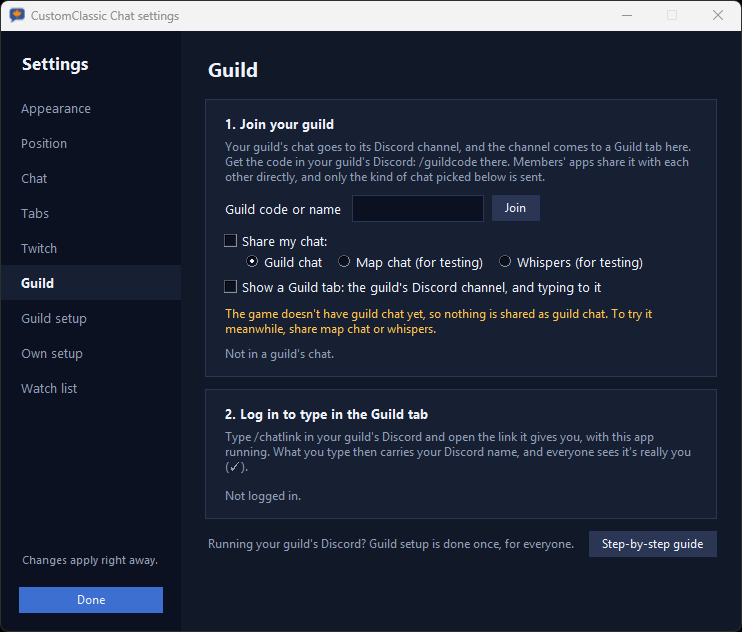
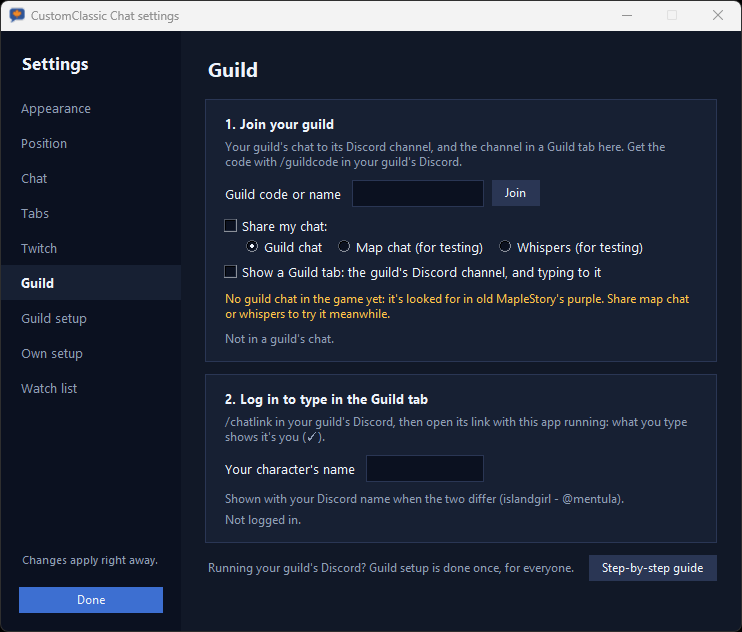
Typed guild messages show the character's name, and the Discord name when it differs
"islandgirl - @mentula", or just "mentula" when one name is part of the other. The character's
name is set in Settings → Guild (first of your character names by default). Webhook names get
look-alikes for the characters Discord refuses. The bot logs why it skips a channel message.

Changed region(s): [[0.279, 0.2104, 0.9609, 0.7516], [0.279, 0.7816, 0.9919, 0.932]]

diff --git a/settings_ui.py b/settings_ui.py
@@ -416,10 +416,8 @@ class SettingsWindow:
         tab = tk.BooleanVar(value=opts["relay_tab"])
         source = tk.StringVar(value=opts["relay_source"] if opts["relay_source"] in dict(guild_relay.SOURCES)
                               else "guild")
-        c = card(page, "1. Join your guild", "Your guild's chat goes to its Discord channel, and the channel "
-                                             "comes to a Guild tab here. Get the code in your guild's Discord: "
-                                             "/guildcode there. Members' apps share it with each other directly, "
-                                             "and only the kind of chat picked below is sent.")
+        c = card(page, "1. Join your guild", "Your guild's chat to its Discord channel, and the channel in a Guild "
+                                             "tab here. Get the code with /guildcode in your guild's Discord.")
         row = tk.Frame(c, bg=CARD)
         row.pack(fill="x")
         label(row, "Guild code or name").pack(side="left")
@@ -431,9 +429,8 @@ class SettingsWindow:
 
         def show_waiting():
             if source.get() == "guild" and not app.guild_colour_known():
-                waiting.configure(text="The game doesn't have guild chat yet. This app already looks for it in "
-                                       "old MapleStory's guild purple, and shares it once it shows up. To try it "
-                                       "meanwhile, share map chat or whispers.")
+                waiting.configure(text="No guild chat in the game yet: it's looked for in old MapleStory's purple. "
+                                       "Share map chat or whispers to try it meanwhile.")
             elif source.get() != "guild":
                 kind = dict(guild_relay.SOURCES)[source.get()].split(" (")[0].lower()
                 waiting.configure(text=f"Testing: your {kind} goes to the guild's Discord, labelled as such. "
@@ -492,12 +489,27 @@ class SettingsWindow:
                 top.after(3000, tick)
         tick()
 
-        c = card(page, "2. Log in to type in the Guild tab", "Type /chatlink in your guild's Discord and open the "
-                                                             "link it gives you, with this app running. What you "
-                                                             "type then carries your Discord name, and everyone "
-                                                             "sees it's really you (✓).")
+        c = card(page, "2. Log in to type in the Guild tab", "/chatlink in your guild's Discord, then open its link "
+                                                             "with this app running: what you type shows it's you (✓).")
+        row = tk.Frame(c, bg=CARD)
+        row.pack(fill="x", pady=(0, 6))
+        label(row, "Your character's name").pack(side="left")
+        game = tk.StringVar(value=opts["game_name"] or next(iter(opts["ignore_names"]), ""))
+        entry(row, game, 16).pack(side="left", padx=8, ipady=2)
+        shown = label(c, "", soft=True, size=9, wrap=470)
+        shown.pack(fill="x")
         who = label(c, "", size=9)
         who.pack(fill="x")
+
+        def show_name(*_):
+            claims = guild_relay.check_login(opts["guild_login"]) if opts["guild_login"] else None
+            if game.get().strip() != opts["game_name"]:
+                app.set_opt("game_name", game.get().strip())
+                if app.relay:
+                    app.relay.game_name = app.game_name()
+            shown.configure(text=f"Your messages show as: {guild_relay.who(app.game_name(), claims['name'])}" if claims
+                            else "Shown with your Discord name when the two differ (islandgirl - @mentula).")
+        game.trace_add("write", show_name)
 
         def show_login():
             claims = guild_relay.check_login(opts["guild_login"]) if opts["guild_login"] else None
@@ -515,6 +527,7 @@ class SettingsWindow:
             show_login()
         out = button(c, "Log out", log_out)
         show_login()
+        show_name()
         if opts["guild_login"]:  # nothing to log out of otherwise
             out.pack(anchor="w", pady=(6, 0))
         row = tk.Frame(page, bg=BG)

diff --git a/guild_relay.py b/guild_relay.py
@@ -256,6 +256,24 @@ def check_webhook(url: str) -> dict:
     return {"webhook_id": m.group(1), "channel_id": str(r.json().get("channel_id") or "")}
 
 
+def who(game: str, discord: str) -> str:
+    """The name a typed message goes under: the character's, with the Discord name after it when
+    the two don't look like the same person ("islandgirl - @mentula"); one name when one is part of
+    the other ("mentula" and "mentulatv": mentula), or when there's no character name."""
+    game, discord = clean(game).strip()[:20], clean(discord).strip()[:32]
+    if not game or not discord:
+        return game or discord or "?"
+    if game.casefold() in discord.casefold() or discord.casefold() in game.casefold():
+        return game
+    return f"{game} - @{discord}"
+
+
+def webhook_name(name: str) -> str:
+    """Discord turns down webhook names with @, # or "discord" in them: look-alikes instead."""
+    name = name.replace("@", "＠").replace("#", "＃")
+    return re.sub(r"(?i)discord", lambda m: m.group(0).replace("o", "ο").replace("O", "Ο"), name)[:80]
+
+
 def post_webhook(url: str, username: str, content: str) -> None:
     import httpx
     payload = {"username": username[:80], "content": content, "allowed_mentions": {"parse": []}}
@@ -296,6 +314,7 @@ class GuildPeer:
             self.cfg = {k: admin[k] for k in ("name", "webhook", "webhook_id", "channel_id") if k in admin}
             self.cfg["has_bot"] = bool(admin.get("bot"))
         self.login = login  # this app's signed login (from the magic link), for typing in the Guild tab
+        self.game_name = ""  # this player's character name, shown with the Discord name when they differ
         self.bot_key = bot_key  # the bot's public key (tests give their own)
         self.post = post or post_webhook
         self.read = read or read_channel
@@ -367,7 +386,7 @@ class GuildPeer:
             claims = check_login(str(msg.get("login", "")), self.bot_key, now)
             server = self.cfg.get("server_id")
             ok = bool(claims) and (not server or str(claims.get("server")) == server)
-            name = str(claims["name"] if ok else msg.get("name", "?"))[:32]
+            name = who(str(msg.get("game", "")), str(claims["name"] if ok else msg.get("name", "?")))
             self.put(("msg", {"kind": "guildsay", "name": name + (" ✓" if ok else " (unverified)"),
                               "body": clean(str(msg.get("text", ""))), "at": now, "time": time.strftime("%H:%M"),
                               "to": None, "fg": None, "bg": None}))
@@ -393,16 +412,17 @@ class GuildPeer:
         text = clean(text)[:400]
         if not text:
             return ""
-        self.say({"t": "say", "text": text, "login": self.login, "name": claims["name"]})
-        self.put(("msg", {"kind": "guildsay", "name": claims["name"] + " ✓", "body": text, "at": time.time(),
+        self.say({"t": "say", "text": text, "login": self.login, "name": claims["name"], "game": self.game_name})
+        name = who(self.game_name, claims["name"])
+        self.put(("msg", {"kind": "guildsay", "name": name + " ✓", "body": text, "at": time.time(),
                           "time": time.strftime("%H:%M"), "to": None, "fg": None, "bg": None}))
         if self.cfg.get("webhook"):
-            threading.Thread(target=self._post_said, args=(claims["name"], text), daemon=True).start()
+            threading.Thread(target=self._post_said, args=(name, text), daemon=True).start()
         return ""
 
     def _post_said(self, name: str, text: str) -> None:
         try:
-            self.post(self.cfg["webhook"], f"{name} · app", text)
+            self.post(self.cfg["webhook"], webhook_name(name), text)
         except Exception as e:
             self.error = f"Discord refused a post ({e.__class__.__name__})"
 

diff --git a/customclassic_chat.py b/customclassic_chat.py
@@ -79,6 +79,7 @@ DEFAULTS = {
     "relay_cfg": {},          # guild code -> the guild's details as last heard (its name and Discord webhook)
     "relay_admin": {},        # guild code -> guilds set up from here: name, webhook, and the Discord bot token if any
     "guild_login": "",        # this app's login from the bot's magic link (/chatlink): to type in the Guild tab
+    "game_name": "",          # your character's name, shown with your Discord name on what you type (if they differ)
     "tab": "All",
     "settings_page": "Appearance",  # the settings section open last
     "menu_close_s": 10,       # the right-click menu closes after this many seconds (0: stays until clicked away)
@@ -2153,6 +2154,11 @@ class ChatPanel(ChatView):
         self.render()
         save_settings(self.opts)
 
+    def game_name(self) -> str:
+        """Your character's name for what you type in the Guild tab: as set, or your first
+        character name from the Chat page."""
+        return self.opts["game_name"].strip() or next(iter(self.opts["ignore_names"]), "")
+
     def set_opt(self, key: str, value) -> None:
         self.opts[key] = value
         save_settings(self.opts)
@@ -2240,6 +2246,7 @@ class ChatPanel(ChatView):
             self.relay = guild_relay.GuildPeer(code, o["relay_reader"], self.events.put, o["relay_share"],
                                                o["relay_tab"], o["relay_source"], cfg=o["relay_cfg"].get(code),
                                                admin=admin, login=o["guild_login"])
+            self.relay.game_name = self.game_name()
 
     def set_relay(self, code: str, share: bool, tab: bool, source: str | None = None) -> None:
         self.opts["relay_code"] = guild_relay.guild_key(code)

diff --git a/tests/test_login.py b/tests/test_login.py
@@ -54,7 +54,7 @@ def test_typing_reaches_the_guild_signed():
     time.sleep(0.3)  # the post to Discord goes on its own thread
     [(kind, msg)] = heard
     assert (msg["kind"], msg["name"], msg["body"]) == ("guildsay", "Rowan ✓", "hi all @everyone")
-    assert said == [("Rowan · app", "hi all @everyone")]
+    assert said == [("Rowan", "hi all @everyone")]
 
 
 def test_what_you_type_shows_once_for_you():
@@ -94,3 +94,16 @@ def test_the_magic_link_reaches_the_app(monkeypatch):
     except urllib.error.HTTPError as e:
         assert e.code == 400
     assert events.empty()
+
+
+def test_character_and_discord_name_both_show_when_they_differ():
+    assert g.who("islandgirl", "mentula") == "islandgirl - @mentula"
+    assert g.who("mentula", "Mentula") == "mentula"  # the same person by name: once
+    assert g.who("mentula", "mentulatv") == "mentula" and g.who("", "mentula") == "mentula"
+    assert g.webhook_name("islandgirl - @mentula") == "islandgirl - ＠mentula"  # Discord turns down a plain @
+    assert "discord" not in g.webhook_name("discordfan - @x").lower()
+    a, b, heard, said = peers()
+    a.login, a.game_name = login(), "islandgirl"
+    assert a.say_chat("hi") == ""
+    time.sleep(0.3)
+    assert heard[0][1]["name"] == "islandgirl - @Rowan ✓" and said == [("islandgirl - ＠Rowan", "hi")]

diff --git a/bot/ccchat_bot.py b/bot/ccchat_bot.py
@@ -301,6 +301,9 @@ def make_bot(store: Store, channels: Channels, key=None):
             return
         if should_pass_on(message, row):
             channels.discord_message(row["key"], message.author.display_name, message.content)
+        else:  # why a message in a set-up channel didn't go to the Guild tabs (never what it says)
+            log.info("not passed on in %s: words=%s bot=%s webhook=%s", row["name"], bool(message.content),
+                     message.author.bot, message.webhook_id)
 
     async def republish():
         while True:

diff --git a/docs/guild-setup.md b/docs/guild-setup.md
@@ -73,8 +73,10 @@ share. More members sharing just means fewer gaps.
    *CustomClassic Chat is logged in as …*. You can close that tab.
 3. Open the **Guild** tab, click the line at the bottom, type, and press **Enter**.
 
-Your message goes to the Discord channel and to every member's Guild tab under your Discord name
-with a ✓. The ✓ means the bot vouched for that name. A login lasts 90 days; then `/chatlink`
+Put **your character's name** in *Settings → Guild* too. Your message goes to the Discord channel
+and to every member's Guild tab under your character's name, with your Discord name after it when
+the two differ (`islandgirl - @mentula`; just `mentula` when they match). The ✓ means the bot
+vouched for the Discord name. A login lasts 90 days; then `/chatlink`
 again. **Esc** or a click on the game gives the keyboard back to the game.
 
 The link is yours alone: don't share it. *Settings → Guild → Log out* removes the login from this
